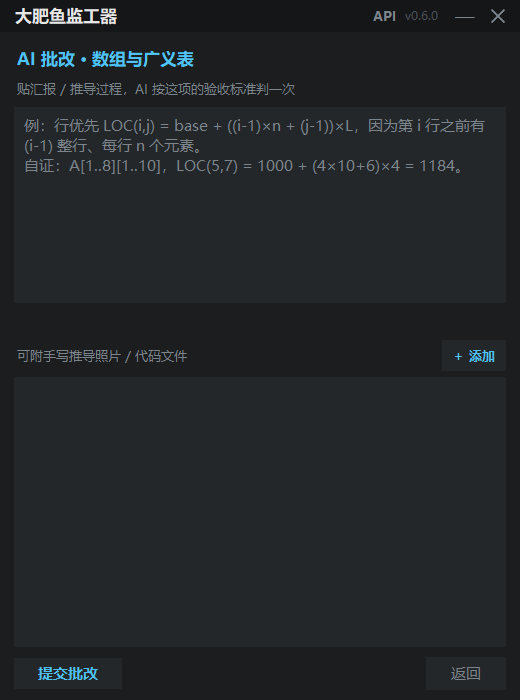
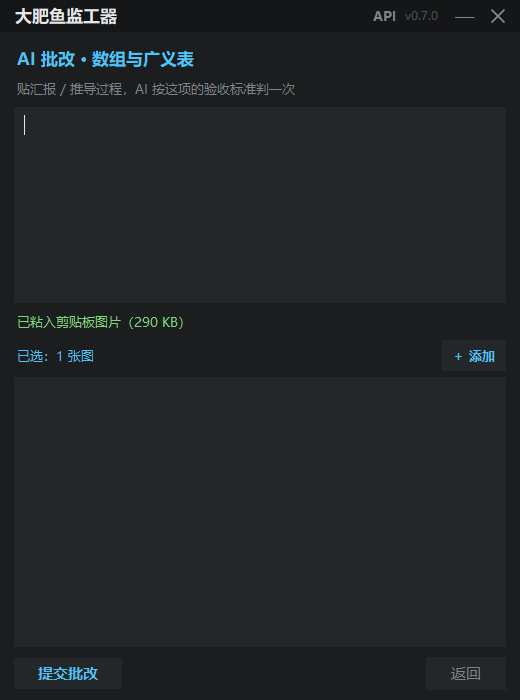
docs(changelog): 记录 0.7.0，更新批改面板截图

diff --git a/CHANGELOG.md b/CHANGELOG.md
@@ -11,6 +11,27 @@
 
 ---
 
+## [0.7.0] - 2026-11-01
+
+### 新增
+
+- **截图直接粘贴**：批改面板里按 `Ctrl+V` 就能把手写推导的截图贴进来，不用先存文件再选路径
+- **剪贴板取图** `clipimg.py`：纯标准库实现，Win32 读 `CF_DIB`/`CF_DIBV5` → 转 PPM → Tk 读入 → 写出 PNG → base64，全程不落永久文件
+- 剪贴板里是文件时（资源管理器复制的），`Ctrl+V` 自动识别为附件
+- 粘贴成功给出反馈：`已粘入剪贴板图片（290 KB）`
+
+### 修复
+
+- 非 Windows 平台导入即崩：`ctypes.windll` 不存在，改为 `IS_WINDOWS` 判断后降级（粘贴图片不可用，`＋ 添加` 仍可用）
+
+### 已知问题
+
+- 只支持 24/32 位 BI_RGB / BI_BITFIELDS 位图；遇到特殊截图工具给的调色板位图会明确报错，改用另存文件
+- macOS / Linux 无剪贴板贴图，只能走文件选择
+- 粘贴大的截图会让请求体变大，模型侧按图片数计费
+
+---
+
 ## [0.6.0] - 2026-11-01
 
 ### 新增
